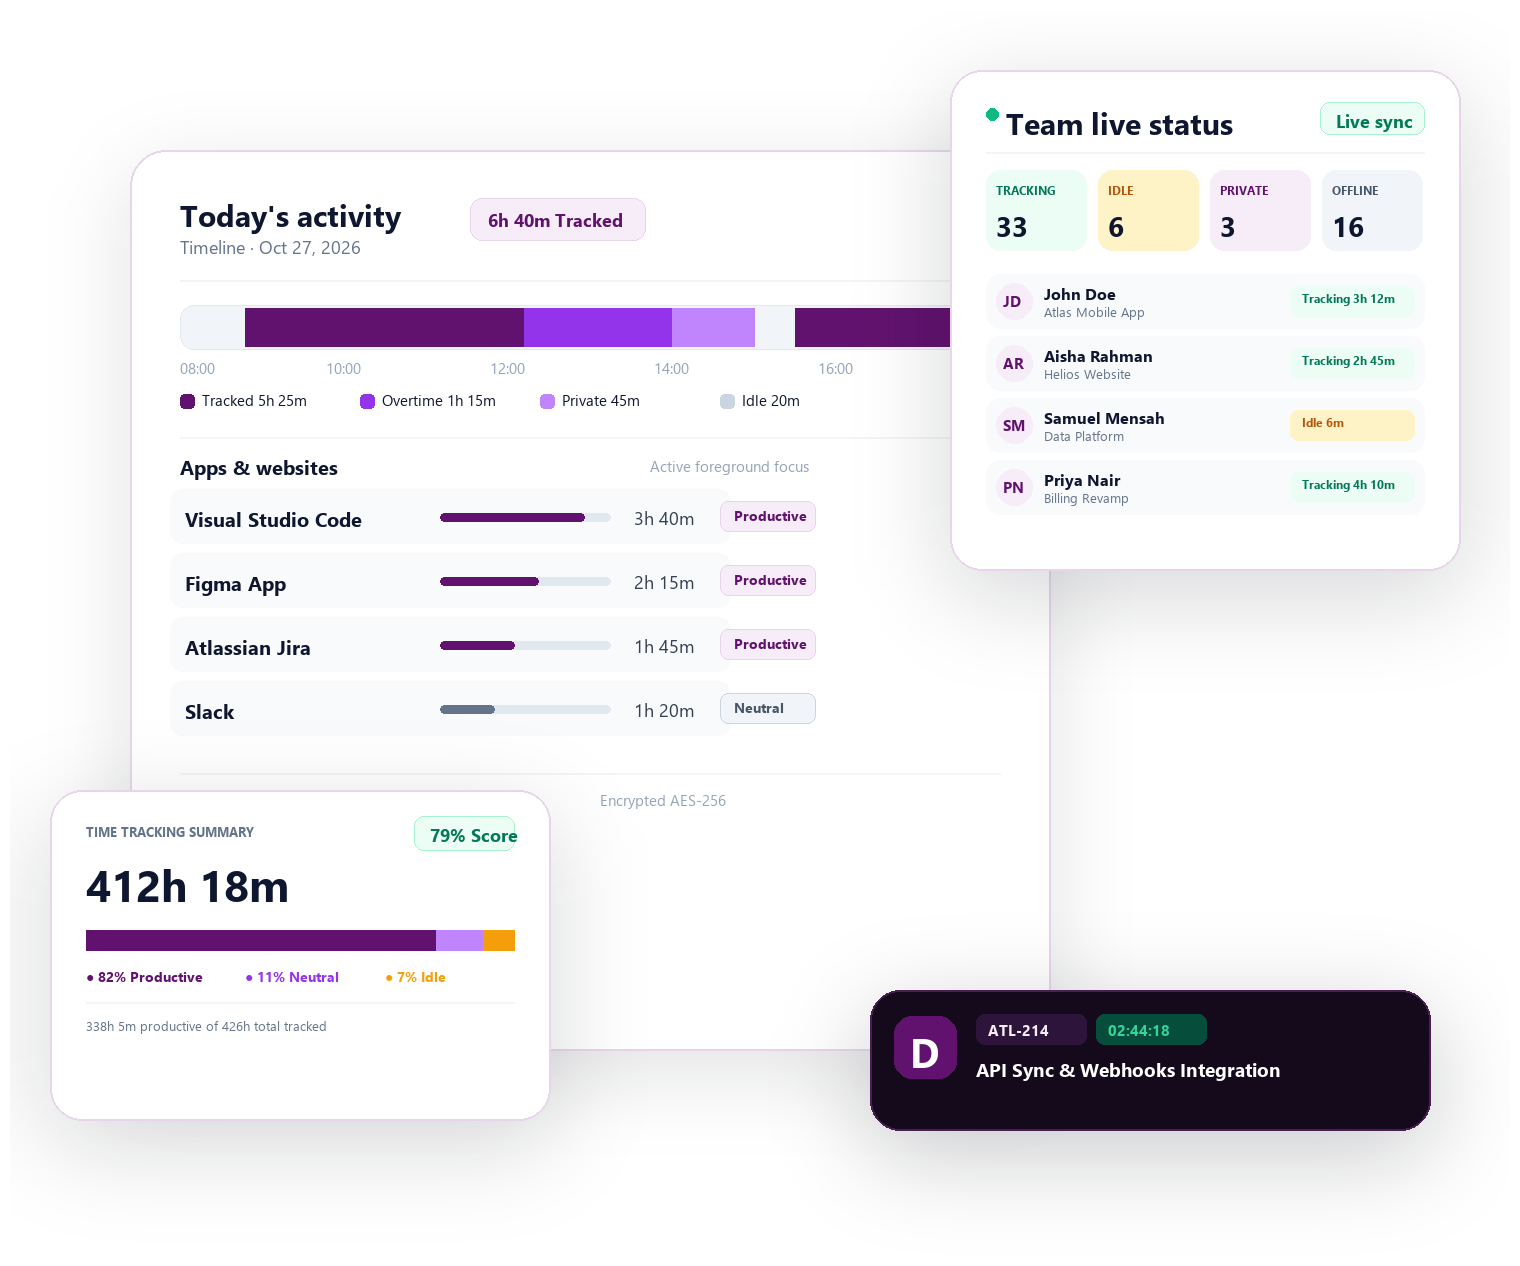
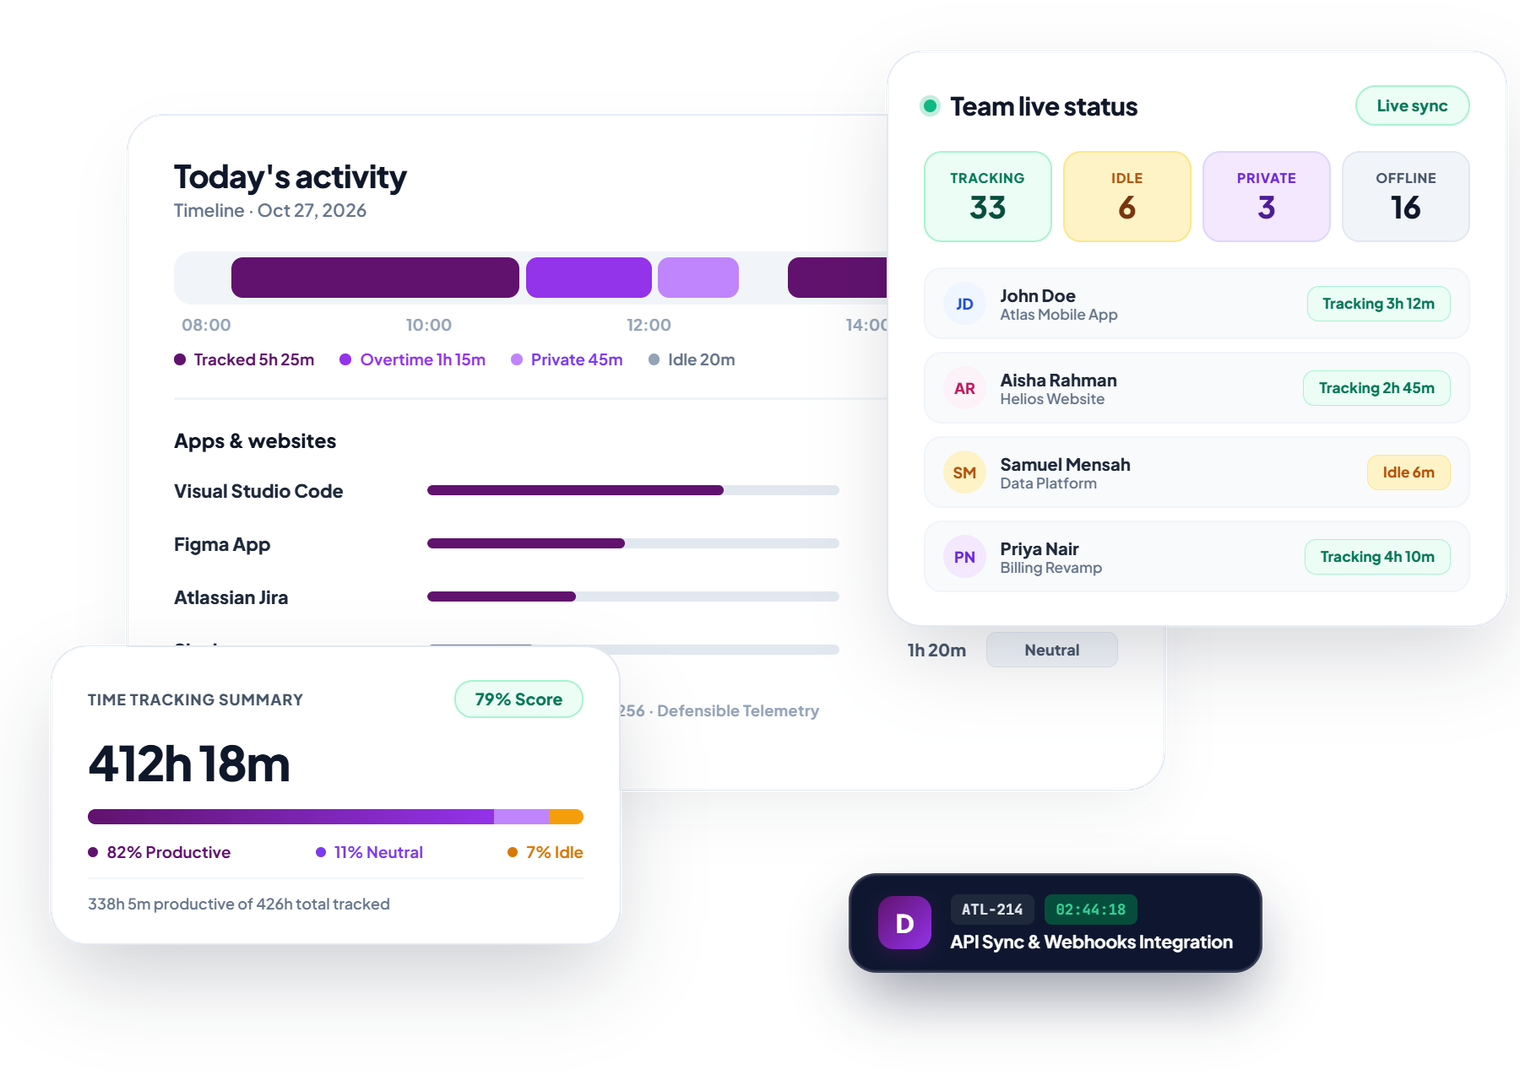
fix(hero): scale up hero card composite, align live sync badge, status tiles, and 79% score pill

diff --git a/src/components/DeskmeritHero.tsx b/src/components/DeskmeritHero.tsx
@@ -25,13 +25,13 @@ import {
 
 function HeroGraphic() {
   return (
-    <div className="relative w-full max-w-full sm:max-w-[620px] mx-auto">
+    <div className="relative w-full max-w-full lg:max-w-[760px] xl:max-w-[840px] mx-auto">
       {/* Background Subtle Gradient Aura */}
-      <div className="absolute top-1/2 left-1/2 -translate-x-1/2 -translate-y-1/2 w-[280px] sm:w-[480px] h-[280px] sm:h-[480px] bg-gradient-to-tr from-[#61126E]/15 via-indigo-500/10 to-transparent rounded-full blur-2xl sm:blur-3xl pointer-events-none -z-0" />
+      <div className="absolute top-1/2 left-1/2 -translate-x-1/2 -translate-y-1/2 w-[340px] sm:w-[600px] h-[340px] sm:h-[600px] bg-gradient-to-tr from-[#61126E]/18 via-indigo-500/12 to-transparent rounded-full blur-2xl sm:blur-3xl pointer-events-none -z-0" />
       <img
         src="/images/figma/hero-mockup-composite.png"
         alt="Deskmerit Live Team Activity, Timeline, and Time Tracking Summary"
-        className="relative z-10 w-full h-auto object-contain drop-shadow-[0_20px_50px_rgba(15,23,48,0.12)]"
+        className="relative z-10 w-full h-auto object-contain select-none drop-shadow-[0_24px_55px_rgba(15,23,48,0.14)]"
         loading="eager"
       />
     </div>
@@ -158,10 +158,10 @@ export function DeskmeritHero() {
         }}
       />
 
-      <div className="max-w-7xl mx-auto px-4 sm:px-6 lg:px-8 relative z-10">
-        <div className="grid grid-cols-1 lg:grid-cols-12 gap-12 lg:gap-14 items-center">
+      <div className="max-w-[1400px] mx-auto px-4 sm:px-6 lg:px-8 relative z-10">
+        <div className="grid grid-cols-1 lg:grid-cols-12 gap-10 lg:gap-8 xl:gap-12 items-center">
           {/* Left Column: Bold Typography & Lead Capture (Reference Image 4) */}
-          <div className="lg:col-span-6 text-left">
+          <div className="lg:col-span-5 text-left">
             {/* Clean Eyebrow Standard */}
             <div className="text-xs font-bold uppercase tracking-wider text-[#61126E] flex items-center gap-2 mb-3">
               <span className="w-2 h-2 rounded-full bg-[#61126E] animate-pulse" />
@@ -169,7 +169,7 @@ export function DeskmeritHero() {
             </div>
 
             {/* H1 Headline Matching Reference Image 4 Style */}
-            <h1 className="text-4xl sm:text-5xl lg:text-[56px] font-extrabold text-[#0A2540] tracking-[-0.035em] leading-[1.22] sm:leading-[1.18] lg:leading-[1.15] mb-6">
+            <h1 className="text-4xl sm:text-5xl lg:text-[52px] xl:text-[56px] font-extrabold text-[#0A2540] tracking-[-0.035em] leading-[1.22] sm:leading-[1.18] lg:leading-[1.14] mb-6">
               Know where the work goes.{" "}
               <span className="text-[#61126E]">
                 Without watching over shoulders.
@@ -218,7 +218,7 @@ export function DeskmeritHero() {
           </div>
 
           {/* Right Column: Hero Graphic from Figma (Image instead of code) */}
-          <div className="lg:col-span-6 relative">
+          <div className="lg:col-span-7 relative flex justify-center lg:justify-end">
             <HeroGraphic />
           </div>
         </div>
